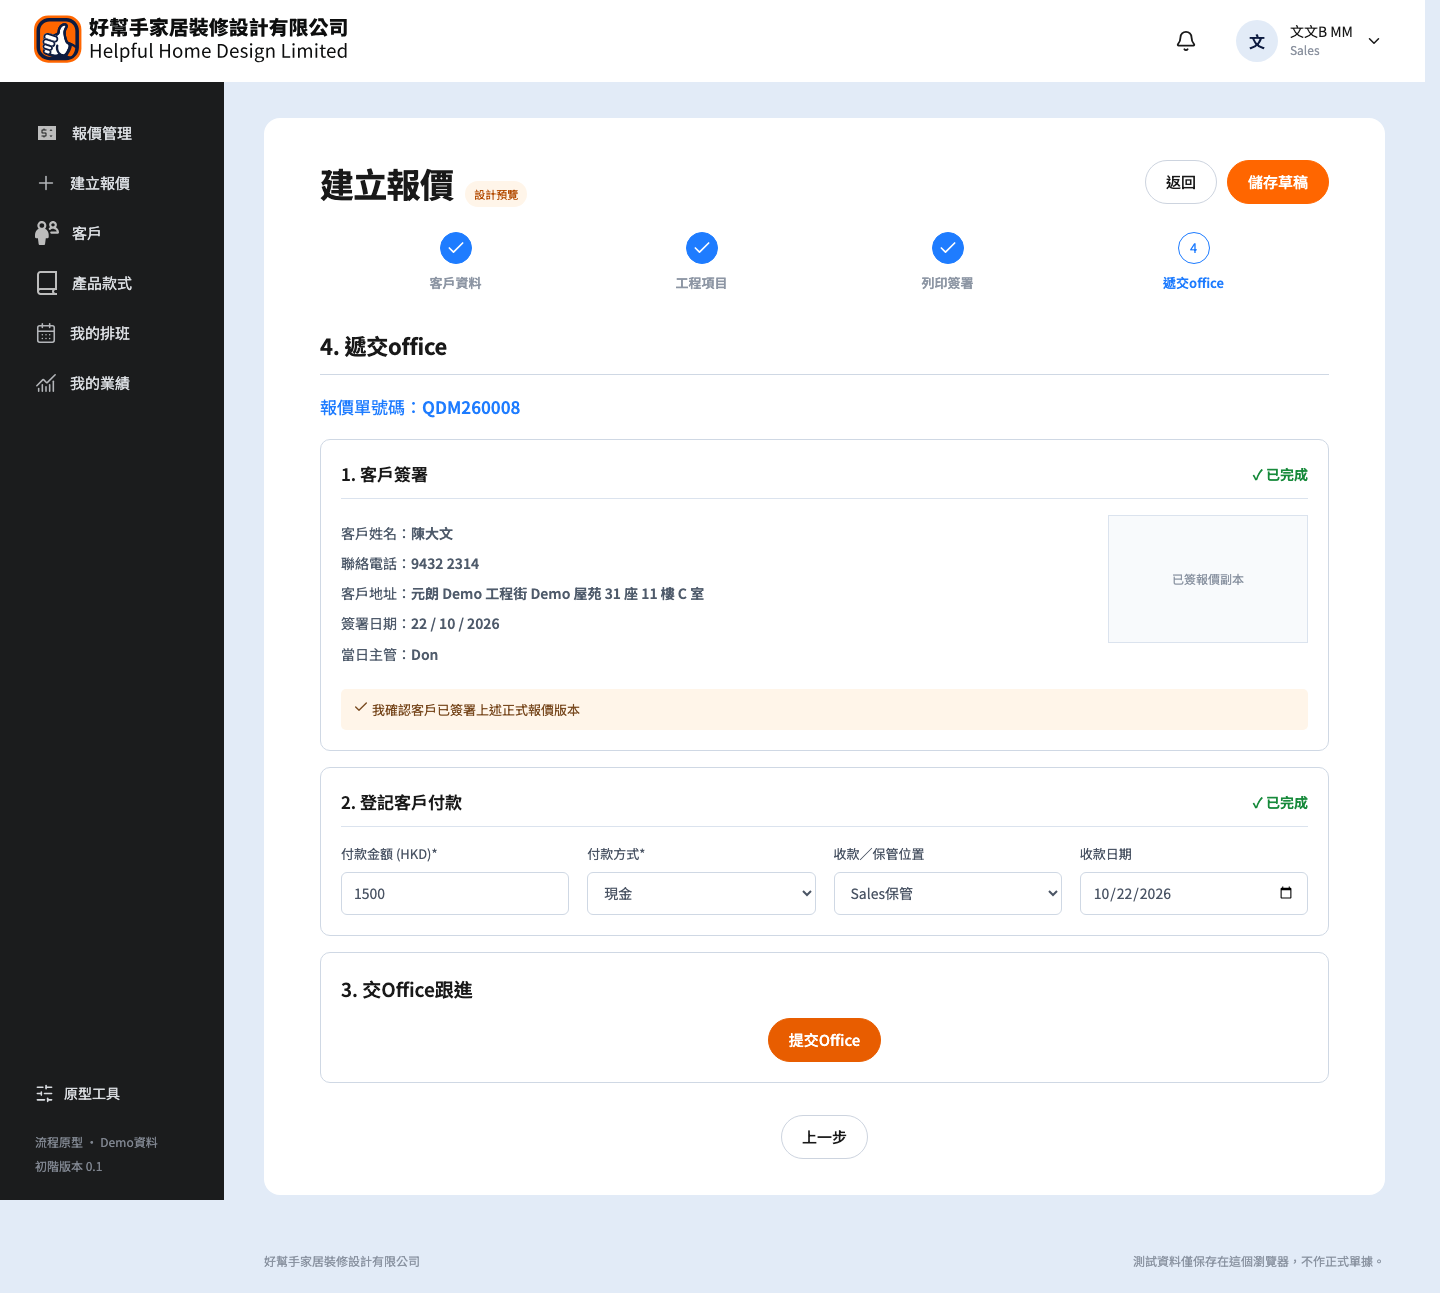
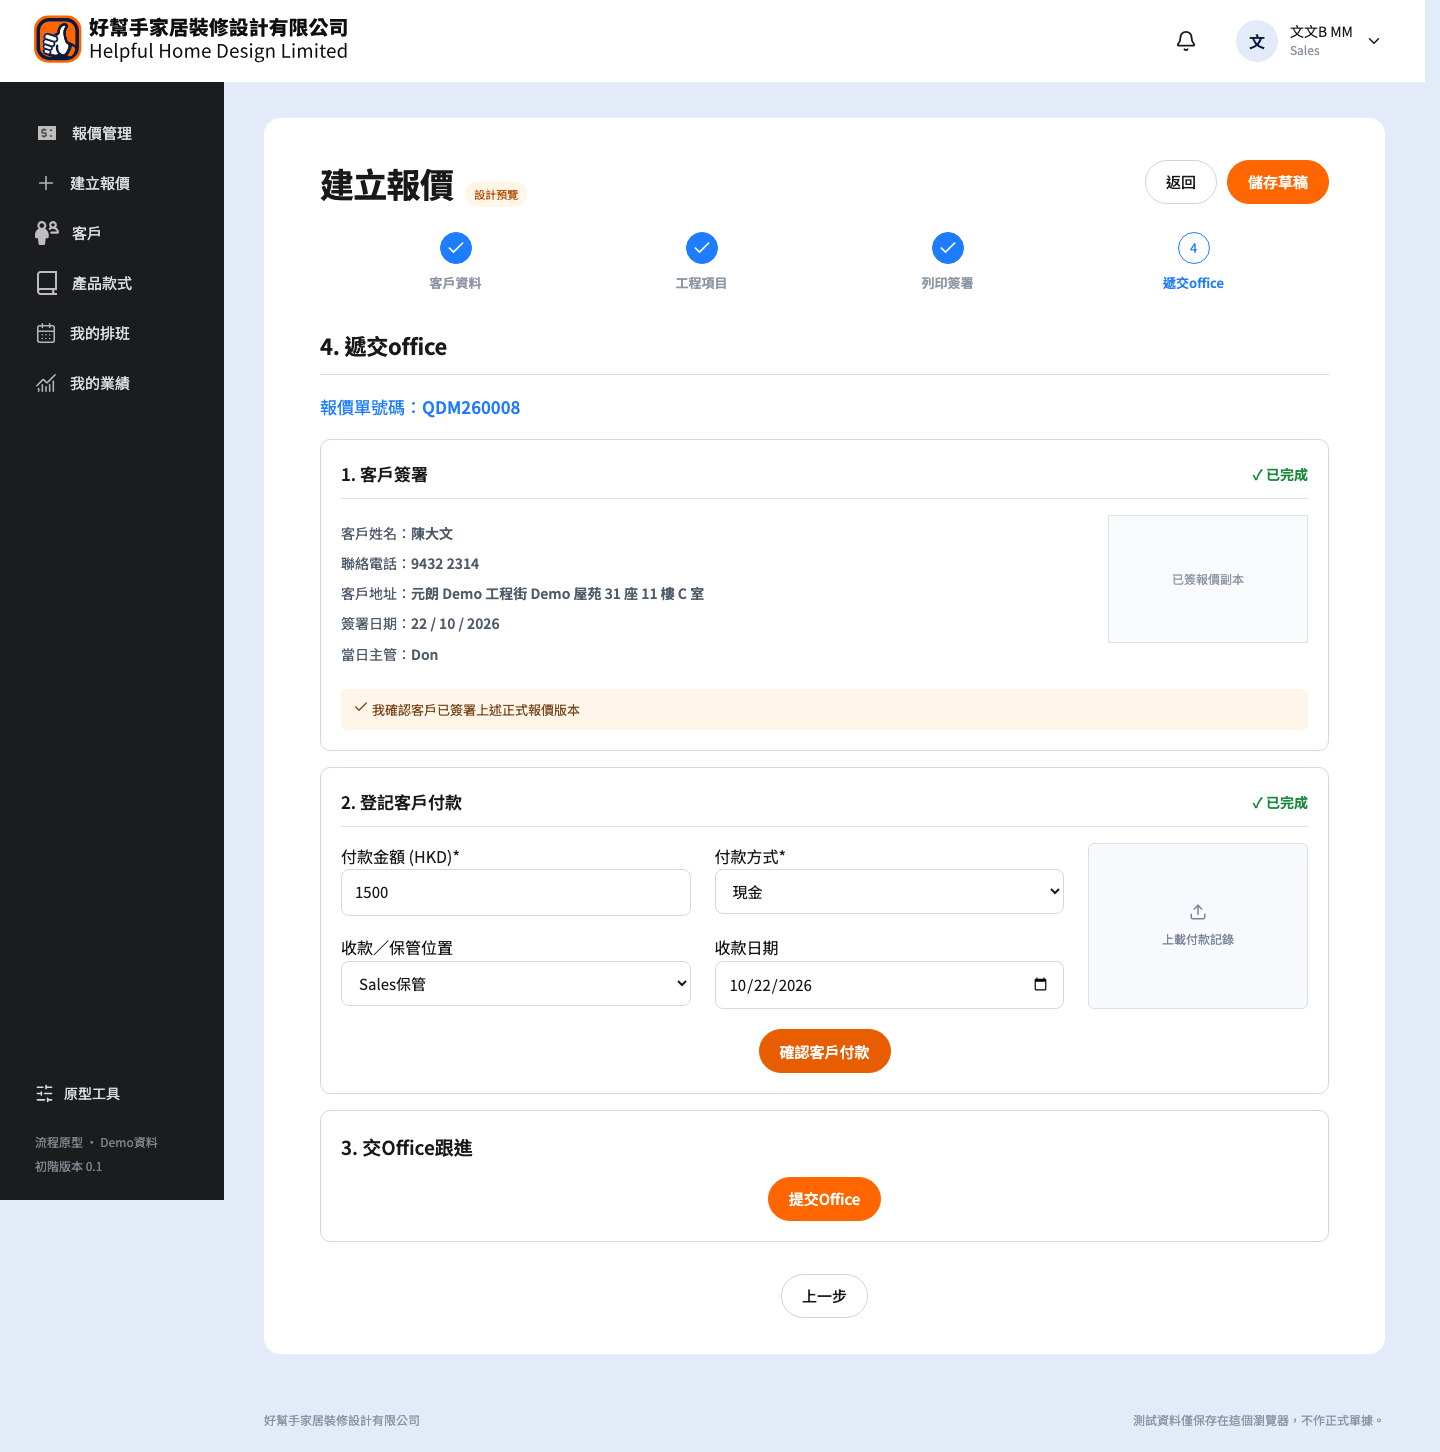
fix(design): align quote form fields and payment upload

diff --git a/src/pages/QuoteWizardPreview.tsx b/src/pages/QuoteWizardPreview.tsx
@@ -1,6 +1,14 @@
 import React, { useState } from "react";
 import { Link, useNavigate } from "react-router-dom";
-import { ArrowLeft, ArrowRight, Check, Plus, Printer, Trash2 } from "lucide-react";
+import {
+  ArrowLeft,
+  ArrowRight,
+  Check,
+  Plus,
+  Printer,
+  Trash2,
+  Upload,
+} from "lucide-react";
 
 const STEPS = [
   ["1", "客戶資料"],
@@ -223,11 +231,20 @@ export function QuoteWizardPreview() {
           </div>
           <div className="quote-handoff-card">
             <div className="quote-handoff-title"><h3>2. 登記客戶付款</h3><span>✓ 已完成</span></div>
-            <div className="quote-payment-grid">
-              <label>付款金額 (HKD)*<input defaultValue="1500" /></label>
-              <label>付款方式*<select defaultValue="cash"><option value="cash">現金</option><option value="transfer">銀行轉帳</option></select></label>
-              <label>收款／保管位置<select><option>Sales保管</option><option>公司戶口</option></select></label>
-              <label>收款日期<input type="date" defaultValue="2026-10-22" /></label>
+            <div className="quote-payment-layout">
+              <div className="quote-payment-fields">
+                <label>付款金額 (HKD)*<input defaultValue="1500" /></label>
+                <label>付款方式*<select defaultValue="cash"><option value="cash">現金</option><option value="transfer">銀行轉帳</option></select></label>
+                <label>收款／保管位置<select><option>Sales保管</option><option>公司戶口</option></select></label>
+                <label>收款日期<input type="date" defaultValue="2026-10-22" /></label>
+              </div>
+              <div className="quote-payment-upload">
+                <Upload size={18} />
+                <span>上載付款記錄</span>
+              </div>
+            </div>
+            <div className="quote-payment-confirm">
+              <button className="btn btn-primary" type="button">確認客戶付款</button>
             </div>
           </div>
           <div className="quote-handoff-card quote-submit-card">

diff --git a/src/styles.css b/src/styles.css
@@ -9481,3 +9481,57 @@ textarea::placeholder {
   white-space: nowrap;
   margin-bottom: 0;
 }
+
+/* Step 1 form proportions follow the reference */
+.quote-form-grid.four {
+  grid-template-columns: 1.08fr 1.02fr 1.02fr 1fr;
+  gap: 22px;
+}
+.quote-form-grid.six {
+  grid-template-columns: 1fr 1fr 1fr 1fr 0.48fr 0.48fr;
+  gap: 20px;
+}
+.quote-form-grid.two {
+  grid-template-columns: 1.05fr 1fr;
+  gap: 24px;
+}
+
+/* Step 4 payment fields + proof upload follow the reference */
+.quote-payment-layout {
+  display: grid;
+  grid-template-columns: minmax(0, 1fr) 220px;
+  gap: 24px;
+  align-items: stretch;
+  margin-top: 16px;
+}
+.quote-payment-fields {
+  display: grid;
+  grid-template-columns: 1fr 1fr;
+  gap: 18px 24px;
+}
+.quote-payment-upload {
+  display: flex;
+  min-height: 128px;
+  flex-direction: column;
+  align-items: center;
+  justify-content: center;
+  gap: 8px;
+  border: 1px solid #d8e0eb;
+  border-radius: 6px;
+  background: #f7f9fc;
+  color: #778399;
+  font-size: 12px;
+}
+.quote-payment-confirm {
+  display: flex;
+  justify-content: center;
+  padding-top: 20px;
+}
+@media (max-width: 900px) {
+  .quote-payment-layout {
+    grid-template-columns: 1fr;
+  }
+  .quote-payment-upload {
+    min-height: 90px;
+  }
+}

diff --git a/tests/e2e/quote-wizard-preview.spec.ts b/tests/e2e/quote-wizard-preview.spec.ts
@@ -14,4 +14,5 @@ test("Sales可預覽4步建立報價流程", async ({ page }) => {
   await page.getByRole("button", { name: "下一步", exact: true }).click();
   await expect(page.getByText("報價單號碼：", { exact: false })).toBeVisible();
   await expect(page.getByText("提交Office", { exact: true })).toBeVisible();
+  await expect(page.getByText("上載付款記錄", { exact: true })).toBeVisible();
 });
